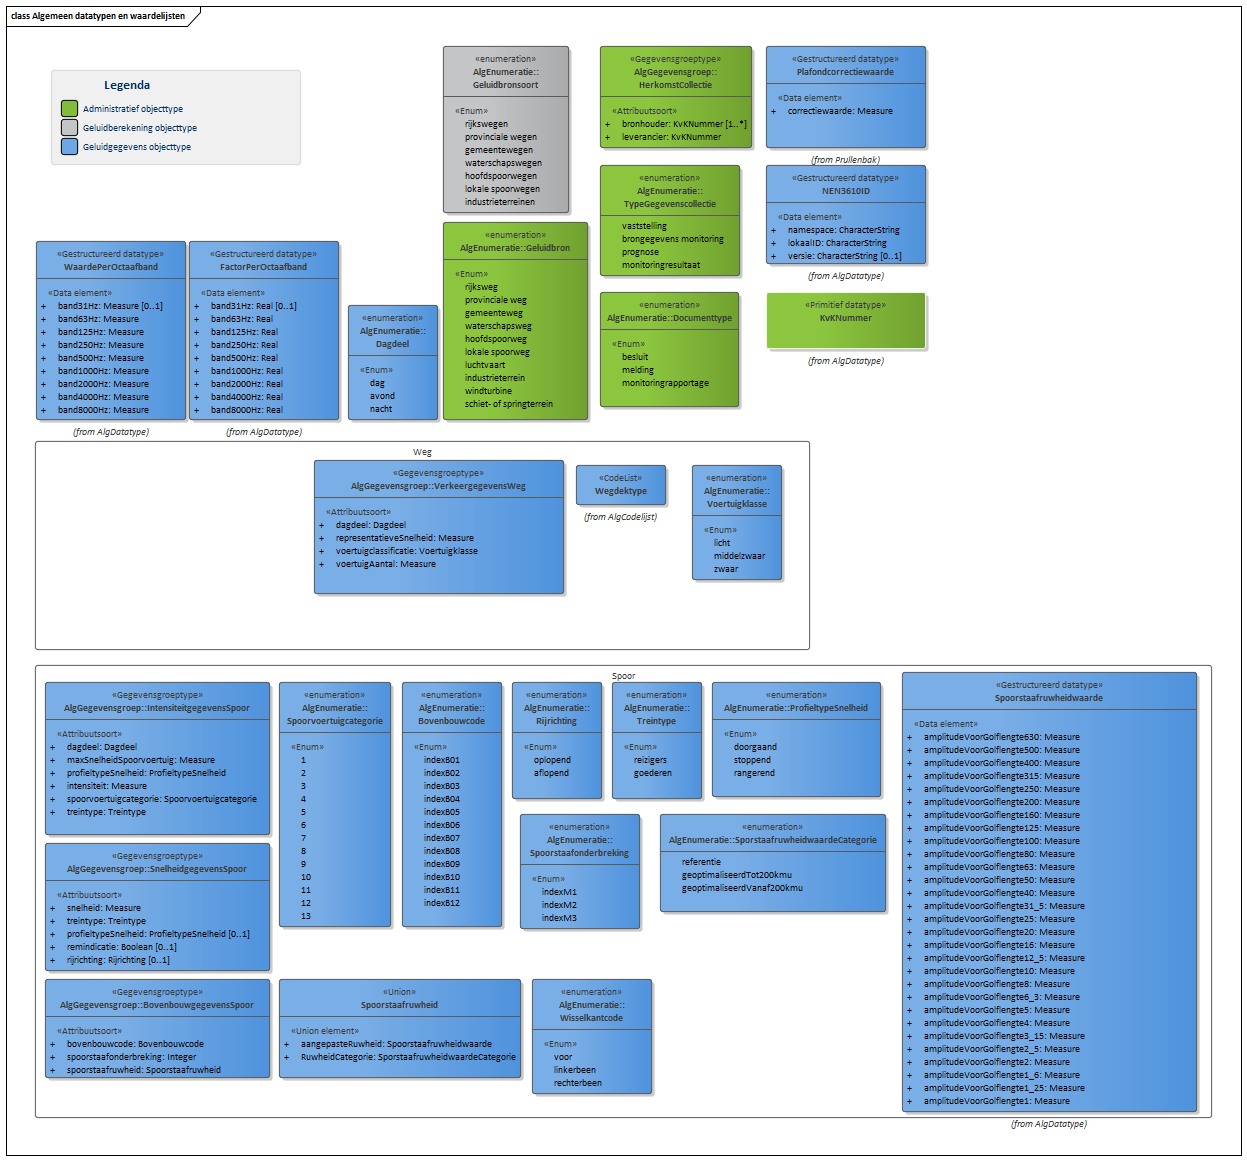
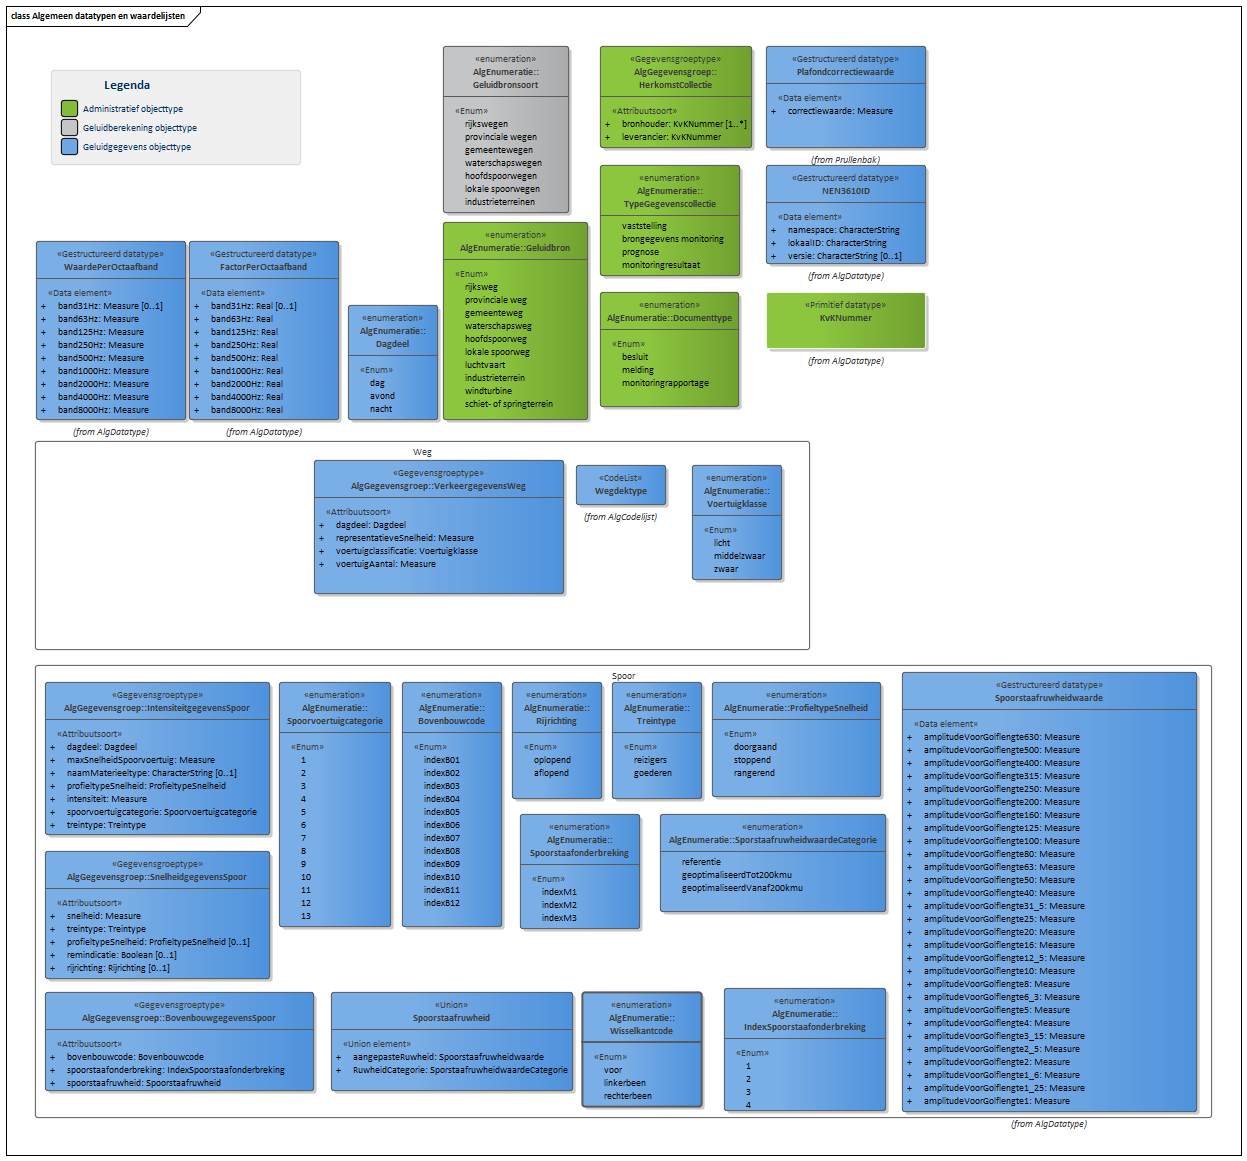
MIMLM-InformatiemodelGeluid-1.0-0-20200421-20200921-162355

Changed region(s): [[0.0305, 0.6512, 0.7314, 0.9612]]

diff --git a/data/img-cat.respec.html b/data/img-cat.respec.html
@@ -2,7 +2,7 @@
 <section id="cat" class="normative">
    <h2>Gegevensdefinitie</h2>
    <p><b>Deze tekst is normatief.</b>
-      <!--MIMLM-InformatiemodelGeluid-1.0-0-20200421-20200916-153416 imvertor 1.61.2--></p>
+      <!--MIMLM-InformatiemodelGeluid-1.0-0-20200421-20200921-162355 imvertor 1.61.2--></p>
    <div class="imageinfo overview"><img src="data/Images/EAID_66AE8FA2_74FC_4d4d_B2B2_249C8D6A651F.png" usemap="#imagemap-EAID_66AE8FA2_74FC_4d4d_B2B2_249C8D6A651F" alt="Diagram Het Basismodel vormt de samenhang tussen alle domeinen van het IMGeluid. Alle objecttypen en relaties uit het IMGeluid komen samen in een Geluidgegevenscollectie.&#xA;Binnen het IMGeluid worden geluidbrongegevens die gebruikt worden voor GPP en BGE berekeningen, gemodelleerd als een Geluidemissie of Geluidoverdrachtobject. De resultaten van GPP of BGE berekeningen worden opgeslagen in een Geluidgegevenscollectie. De onderliggende juridische vastleggingen, vaststellingen, of monitoringsverslagen van deze omgevings- of monitoringswaarden, worden ook opgeslagen in dezelfde Geluidgegevenscollectie.&#xA;Per geluidbron per toepassing kan er een Geluidgegevenscollectie bestaan. Deze kan geassocieerd worden met maximaal 1 Geluidaandachtsgebied. Wanneer geluidgegevens met betrekking tot cumulatieberekeningen worden aangeleverd, bevat een Geluidgegevenscollectie geen Geluidaandachtsgebied.&#xA;&#xA;&#xA;Klik met de rechtermuisknop op het diagram om de afbeelding op volledige grote in een nieuw tabblad te openen."><map name="imagemap-EAID_66AE8FA2_74FC_4d4d_B2B2_249C8D6A651F"><area shape="rect" alt="Monitoringresultaat" coords="525,638,740,760" href="#graph_EAID_BA00B77B_D408_4590_8185_CE59E5838F1E"><area shape="rect" alt="Basisgeluidemissieobject" coords="75,638,341,760" href="#graph_EAID_9AD15457_4880_42e5_8C72_4E5EFAC91B15"><area shape="rect" alt="Geluidproductieplafondobject" coords="908,638,1166,821" href="#graph_EAID_237408F8_8CE9_4828_B8FB_1A5B8C917622"><area shape="rect" alt="Geluidberekeningobject" coords="517,873,772,1044" href="#graph_EAID_97ED59FE_9FCA_49a6_8F07_214E48000B76"><area shape="rect" alt="Documentverwijzing" coords="525,421,739,549" href="#graph_EAID_7E137496_1028_4af5_9367_569358A2167B"><area shape="rect" alt="Geluidaandachtsgebied" coords="947,194,1127,296" href="#graph_EAID_B06128AC_518C_4e26_88E5_14ED5A050A19"><area shape="rect" alt="Geluidgegevenscollectie" coords="476,168,788,322" href="#graph_EAID_313C5AF9_49B8_4860_9E65_DE7C70084864"><area shape="rect" alt="Geluidemissieobject" coords="82,179,334,297" href="#graph_EAID_361C96BA_A638_494e_80BA_590ED481A81B"><area shape="rect" alt="Geluidoverdrachtobject" coords="82,366,334,484" href="#graph_EAID_2FEA326B_B7E7_48a4_B50F_00CCB2694677"></map><p><b>Basismodel - overzicht</b> — Het Basismodel vormt de samenhang tussen alle domeinen van het IMGeluid. Alle objecttypen
          en relaties uit het IMGeluid komen samen in een Geluidgegevenscollectie.
          Binnen het IMGeluid worden geluidbrongegevens die gebruikt worden voor GPP en BGE
@@ -3245,11 +3245,11 @@
                      </td>
                   <td>
                      
-                     <p>Indicatie van de aanwezigheid van onderbrekingen in de geprofileerde ijzeren staaf
-                        die onderdeel is van een spoorbaan. </p>
+                     <p>Index die een indicatie geeft van de aanwezigheid van onderbrekingen in de geprofileerde
+                        ijzeren staaf die onderdeel is van een spoordeel.</p>
                      </td>
                   <td>
-                     Integer
+                     <a class="link" href="#global_class_IMGeluidAlgemeen_IndexSpoorstaafonderbreking">IndexSpoorstaafonderbreking</a>
                      </td>
                   <td>1</td>
                </tr>
@@ -3305,6 +3305,19 @@
                      <a class="external-link" href="">Measure</a>
                      </td>
                   <td>1</td>
+               </tr>
+               <tr>
+                  <td>- 
+                     <a class="link" href="#detail_attribute_IMGeluidAlgemeen_IntensiteitgegevensSpoor_naamMaterieeltype">naamMaterieeltype</a>
+                     </td>
+                  <td>
+                     
+                     <p>Naam van het materieeltype van een spoorvoertuig dat hoort bij een instantie van IntensitieitgegevensSpoor.</p>
+                     </td>
+                  <td>
+                     CharacterString
+                     </td>
+                  <td>0 .. 1</td>
                </tr>
                <tr>
                   <td>- 
@@ -3780,11 +3793,11 @@
                      </td>
                   <td>
                      
-                     <p>Indicatie van de aanwezigheid van onderbrekingen in de geprofileerde ijzeren staaf
-                        die onderdeel is van een spoorbaan. </p>
+                     <p>Index die een indicatie geeft van de aanwezigheid van onderbrekingen in de geprofileerde
+                        ijzeren staaf die onderdeel is van een spoordeel.</p>
                      </td>
                   <td>
-                     Integer
+                     <a class="link" href="#global_class_IMGeluidAlgemeen_IndexSpoorstaafonderbreking">IndexSpoorstaafonderbreking</a>
                      </td>
                   <td>1</td>
                </tr>
@@ -3840,6 +3853,19 @@
                      <a class="external-link" href="">Measure</a>
                      </td>
                   <td>1</td>
+               </tr>
+               <tr>
+                  <td>- 
+                     <a class="link" href="#detail_attribute_IMGeluidAlgemeen_IntensiteitgegevensSpoor_naamMaterieeltype">naamMaterieeltype</a>
+                     </td>
+                  <td>
+                     
+                     <p>Naam van het materieeltype van een spoorvoertuig dat hoort bij een instantie van IntensitieitgegevensSpoor.</p>
+                     </td>
+                  <td>
+                     CharacterString
+                     </td>
+                  <td>0 .. 1</td>
                </tr>
                <tr>
                   <td>- 
@@ -4845,7 +4871,7 @@
                </tr>
                <tr>
                   <th>Herkomst definitie</th>
-                  <td>Reken- en meetvoorschrift geluid, 2012;</td>
+                  <td>IMGeluid</td>
                </tr>
                <tr>
                   <th>Regels</th>
@@ -7109,6 +7135,13 @@
                <td>
                   
                   <p>Plaatsaanduiding van een wissel</p>
+                  </td>
+            </tr>
+            <tr>
+               <th><a class="anchor" id="graph_EAID_89531B10_996F_4085_93AC_36BCCB16C95D"></a><a class="anchor" id="global_class_IMGeluidAlgemeen_IndexSpoorstaafonderbreking"></a><a class="link" href="#detail_class_IMGeluidAlgemeen_IndexSpoorstaafonderbreking">IndexSpoorstaafonderbreking</a></th>
+               <td>
+                  
+                  <p>Enumeratie met mogelijke waarden voor de spoorstaafonderbreking index (m).</p>
                   </td>
             </tr>
             <tr>
@@ -13081,20 +13114,13 @@
                            <th>Definitie</th>
                            <td>
                               
-                              <p>Indicatie van de aanwezigheid van onderbrekingen in de geprofileerde ijzeren staaf
-                                 die onderdeel is van een spoorbaan. </p>
+                              <p>Index die een indicatie geeft van de aanwezigheid van onderbrekingen in de geprofileerde
+                                 ijzeren staaf die onderdeel is van een spoordeel.</p>
                               </td>
                         </tr>
                         <tr>
                            <th>Herkomst definitie</th>
                            <td>IMGeluid</td>
-                        </tr>
-                        <tr>
-                           <th>Toelichting</th>
-                           <td>
-                              
-                              <p>Onderbrekningen in de spoorstaaf zorgen voor een hogere geluidemissie.</p>
-                              </td>
                         </tr>
                         <tr>
                            <th>Mogelijk geen waarde</th>
@@ -13114,7 +13140,7 @@
                         </tr>
                         <tr>
                            <th>Formaat</th>
-                           <td>Integer</td>
+                           <td>IndexSpoorstaafonderbreking</td>
                         </tr>
                      </tbody>
                   </table>
@@ -13362,6 +13388,55 @@
                         <tr>
                            <th>Meeteenheid</th>
                            <td>km/u</td>
+                        </tr>
+                     </tbody>
+                  </table>
+                  </div>
+               
+               <div class="notoc" id="detail_attribute_IMGeluidAlgemeen_IntensiteitgegevensSpoor_naamMaterieeltype">
+                  <h7>Attribuutsoort    naamMaterieeltype IntensiteitgegevensSpoor</h7>
+                  
+                  <table style="width: 100%;">
+                     <tbody>
+                        <tr></tr>
+                        <tr>
+                           <th>Naam</th>
+                           <td>naamMaterieeltype</td>
+                        </tr>
+                        <tr>
+                           <th>Herkomst</th>
+                           <td>IMGeluid</td>
+                        </tr>
+                        <tr>
+                           <th>Definitie</th>
+                           <td>
+                              
+                              <p>Naam van het materieeltype van een spoorvoertuig dat hoort bij een instantie van IntensitieitgegevensSpoor.</p>
+                              </td>
+                        </tr>
+                        <tr>
+                           <th>Herkomst definitie</th>
+                           <td>IMGeluid</td>
+                        </tr>
+                        <tr>
+                           <th>Mogelijk geen waarde</th>
+                           <td>Nee</td>
+                        </tr>
+                        <tr>
+                           <th>Indicatie formele historie</th>
+                           <td>Nee</td>
+                        </tr>
+                        <tr>
+                           <th>Indicatie kardinaliteit</th>
+                           <td>0 .. 1</td>
+                        </tr>
+                        <tr>
+                           <th>Indicatie authentiek</th>
+                           <td>Overig</td>
+                        </tr>
+                        <tr>
+                           <th>Formaat</th>
+                           <td>CharacterString</td>
                         </tr>
                      </tbody>
                   </table>
@@ -14590,20 +14665,13 @@
                            <th>Definitie</th>
                            <td>
                               
-                              <p>Indicatie van de aanwezigheid van onderbrekingen in de geprofileerde ijzeren staaf
-                                 die onderdeel is van een spoorbaan. </p>
+                              <p>Index die een indicatie geeft van de aanwezigheid van onderbrekingen in de geprofileerde
+                                 ijzeren staaf die onderdeel is van een spoordeel.</p>
                               </td>
                         </tr>
                         <tr>
                            <th>Herkomst definitie</th>
                            <td>IMGeluid</td>
-                        </tr>
-                        <tr>
-                           <th>Toelichting</th>
-                           <td>
-                              
-                              <p>Onderbrekningen in de spoorstaaf zorgen voor een hogere geluidemissie.</p>
-                              </td>
                         </tr>
                         <tr>
                            <th>Mogelijk geen waarde</th>
@@ -14623,7 +14691,7 @@
                         </tr>
                         <tr>
                            <th>Formaat</th>
-                           <td>Integer</td>
+                           <td>IndexSpoorstaafonderbreking</td>
                         </tr>
                      </tbody>
                   </table>
@@ -14942,6 +15010,55 @@
                         <tr>
                            <th>Meeteenheid</th>
                            <td>km/u</td>
+                        </tr>
+                     </tbody>
+                  </table>
+                  </div>
+               
+               <div class="notoc" id="detail_attribute_IMGeluidAlgemeen_IntensiteitgegevensSpoor_naamMaterieeltype">
+                  <h7>Attribuutsoort    naamMaterieeltype IntensiteitgegevensSpoor</h7>
+                  
+                  <table style="width: 100%;">
+                     <tbody>
+                        <tr></tr>
+                        <tr>
+                           <th>Naam</th>
+                           <td>naamMaterieeltype</td>
+                        </tr>
+                        <tr>
+                           <th>Herkomst</th>
+                           <td>IMGeluid</td>
+                        </tr>
+                        <tr>
+                           <th>Definitie</th>
+                           <td>
+                              
+                              <p>Naam van het materieeltype van een spoorvoertuig dat hoort bij een instantie van IntensitieitgegevensSpoor.</p>
+                              </td>
+                        </tr>
+                        <tr>
+                           <th>Herkomst definitie</th>
+                           <td>IMGeluid</td>
+                        </tr>
+                        <tr>
+                           <th>Mogelijk geen waarde</th>
+                           <td>Nee</td>
+                        </tr>
+                        <tr>
+                           <th>Indicatie formele historie</th>
+                           <td>Nee</td>
+                        </tr>
+                        <tr>
+                           <th>Indicatie kardinaliteit</th>
+                           <td>0 .. 1</td>
+                        </tr>
+                        <tr>
+                           <th>Indicatie authentiek</th>
+                           <td>Overig</td>
+                        </tr>
+                        <tr>
+                           <th>Formaat</th>
+                           <td>CharacterString</td>
                         </tr>
                      </tbody>
                   </table>
@@ -20770,7 +20887,7 @@
 <section id="lis" class="normative">
    <h2>Inhoud van waardenlijsten</h2>
    <p><b>Deze tekst is normatief.</b>
-      <!--MIMLM-InformatiemodelGeluid-1.0-0-20200421-20200916-153416 imvertor 1.61.2--></p><a class="anchor" id="graph_EAID_32771007_4395_44a9_9388_99F79758D88D"></a><a class="anchor" id="detail_class_IMGeluidAlgemeen_Wegdektype"></a><section id="detail_class_IMGeluidAlgemeen_Wegdektype">
+      <!--MIMLM-InformatiemodelGeluid-1.0-0-20200421-20200921-162355 imvertor 1.61.2--></p><a class="anchor" id="graph_EAID_32771007_4395_44a9_9388_99F79758D88D"></a><a class="anchor" id="detail_class_IMGeluidAlgemeen_Wegdektype"></a><section id="detail_class_IMGeluidAlgemeen_Wegdektype">
       <h3>  Wegdektype</h3>
       
       <table style="width: 100%;" class="list">
@@ -21124,6 +21241,60 @@
                   <p>Plaatsaanduiding van een wissel die aangeeft dat het betreffende spoordeel het linker
                      spoordeel deel (het deel voor de splitsing) van de wissel betreft, gezien vanuit de
                      rijrichting.</p>
+                  </td>
+            </tr>
+         </tbody>
+      </table>
+      </section><a class="anchor" id="graph_EAID_89531B10_996F_4085_93AC_36BCCB16C95D"></a><a class="anchor" id="detail_class_IMGeluidAlgemeen_IndexSpoorstaafonderbreking"></a><section id="detail_class_IMGeluidAlgemeen_IndexSpoorstaafonderbreking">
+      <h3>Enumeratie details  IndexSpoorstaafonderbreking</h3>
+      
+      <table style="width: 100%;" class="list">
+         <colgroup></colgroup>
+         <tbody>
+            <tr>
+               <td>
+                  
+                  <p>Enumeratie met mogelijke waarden voor de spoorstaafonderbreking index (m).</p>
+                  </td>
+            </tr>
+         </tbody>
+      </table>
+      
+      <table style="width: 100%;" class="list">
+         <colgroup style="width: 40%;"></colgroup>
+         <colgroup style="width: 60%;"></colgroup>
+         <tbody>
+            <tr>
+               <th>Waarde</th>
+               <th>Omschrijving</th>
+            </tr>
+            <tr>
+               <th>1</th>
+               <td>
+                  
+                  <p>Voegloze spoorstaaf (doorgelast) met of zonder voegloze wissels en kruisingen (index
+                     <em>m</em> = 1).</p>
+                  </td>
+            </tr>
+            <tr>
+               <th>2</th>
+               <td>
+                  
+                  <p>Niet doorgelaste spoorstaaf (=voegenspoorstaaf) (<em>m</em> = 2).</p>
+                  </td>
+            </tr>
+            <tr>
+               <th>3</th>
+               <td>
+                  
+                  <p>Intern-voegloos wissel (index m=3).</p>
+                  </td>
+            </tr>
+            <tr>
+               <th>4</th>
+               <td>
+                  
+                  <p>Niet-voegloos wissel (index m=4).</p>
                   </td>
             </tr>
          </tbody>
